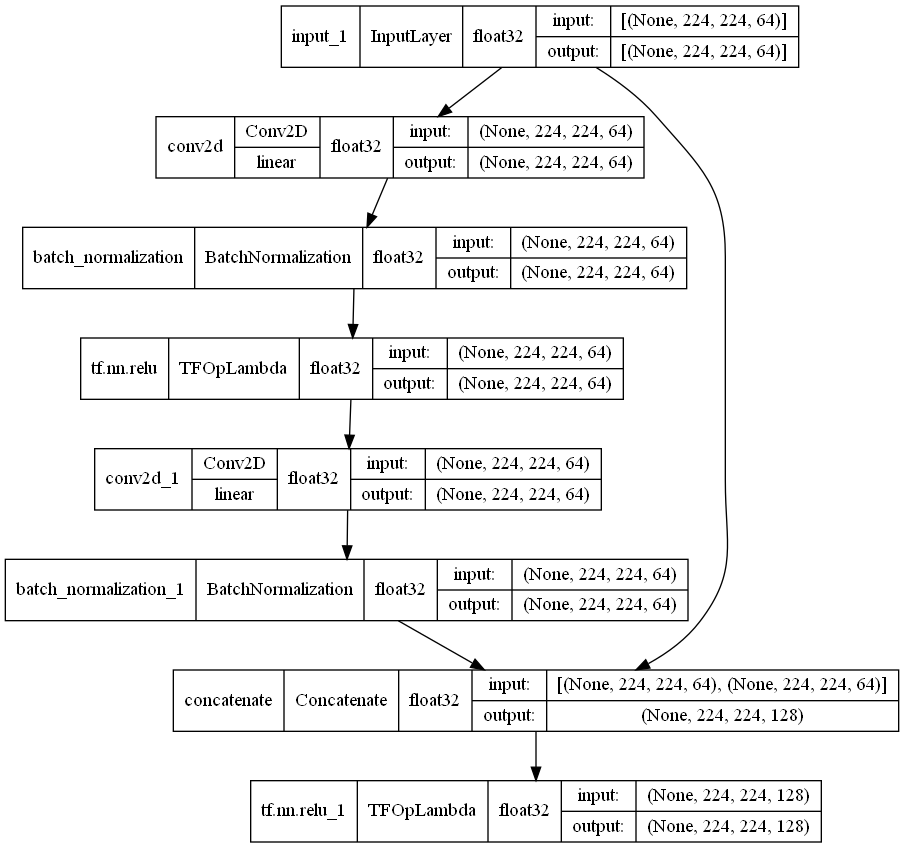
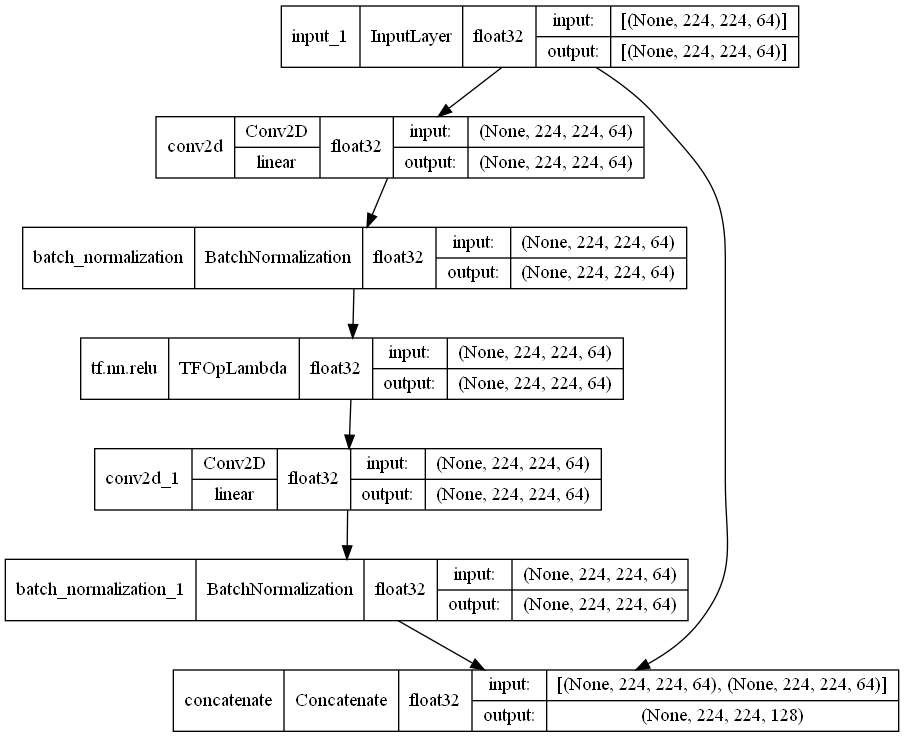
before mid

Changed region(s): [[0.0, 0.0, 1.0, 0.9986], [0.7434, 0.156, 0.7743, 0.2185]]

diff --git a/source/ResNet.py b/source/ResNet.py
@@ -15,6 +15,7 @@ class ResidualUnit(keras.layers.Layer):
             keras.layers.Conv2D(filters, 3, strides = 1, padding = "same", use_bias = False),
             keras.layers.BatchNormalization()
         ]
+        self.concat = keras.layers.Concatenate()
         self.skip_layers = []
         if strides > 1:
             self.skip_layers = [
@@ -29,7 +30,9 @@ class ResidualUnit(keras.layers.Layer):
         skip_z = inputs
         for layer in self.skip_layers:
             skip_z = layer(skip_z)
-        return self.activation(z + skip_z)
+        z = self.concat([z, skip_z])
+        return z
+        # return self.activation(z + skip_z)
 
     def build_graph(self, dim = (224, 224, 64), to_file='ResNet.png', **kwargs):
         x = keras.layers.Input(shape=(dim))
@@ -48,3 +51,4 @@ class ResidualUnit(keras.layers.Layer):
 if __name__ == "__main__":
     model = ResidualUnit(filters=64, strides=1, activation="relu")
     model.build_graph(to_file="D:\Programming\Python\Tender-Notice-Extraction\img\ResNet_Stride1.png",  show_shapes=True, show_dtype=True, show_layer_names=True, show_layer_activations=True)
+    print("Image saved")

diff --git a/source/model.py b/source/model.py
@@ -133,6 +133,17 @@ def model_check():
     plt.grid(True)
     plt.show()
 
+
+
 if __name__ == '__main__':
-    model_check()
+    # build model architecture and save its image
+    modelR = ResNet()
+    modelG = GoogleNet()
+    modelX = Xception()
+
+    # keras.utils.plot_model(modelR, to_file='D:\Programming\Python\Tender-Notice-Extraction\source\models\ResNetTop.png',  show_shapes=True, show_dtype=True, show_layer_names=True, show_layer_activations=True)
+    # keras.utils.plot_model(modelG, to_file='D:\Programming\Python\Tender-Notice-Extraction\source\models\GoogleNetTop.png',  show_shapes=True, show_dtype=True, show_layer_names=True, show_layer_activations=True)
+    # keras.utils.plot_model(modelX, to_file='D:\Programming\Python\Tender-Notice-Extraction\source\models\XceptionTop.png',  show_shapes=True, show_dtype=True, show_layer_names=True, show_layer_activations=True)
+
+    print(modelX.summary())
 
